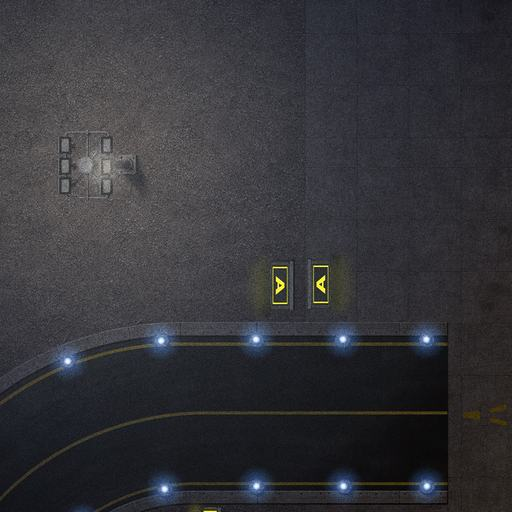
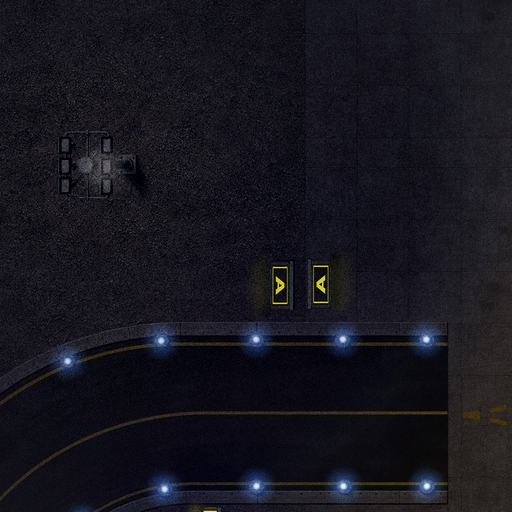
Farol só sobre a torre, sem os clarões dos postes, barra de abas amarela com divisórias
Claude-Session: https://claude.ai/code/session_01Y22HSWpi8bJjkUpXL6Y8uJ

diff --git a/lite.html b/lite.html
@@ -31,7 +31,7 @@ button:focus-visible{outline:2px solid var(--y);outline-offset:2px}
 .zreset{position:absolute;left:10px;top:10px;z-index:12;display:flex;align-items:center;gap:6px;background:var(--k);border:1px solid var(--y);color:var(--y);font-weight:800;font-size:12px;border-radius:18px;padding:6px 12px;min-height:36px}
 .zreset[hidden]{display:none}
 .zhint{position:absolute;left:50%;top:45%;transform:translate(-50%,-50%);font-weight:700;z-index:12;background:rgba(0,0,0,.7);color:var(--g);font-size:11px;border-radius:12px;padding:4px 10px;pointer-events:none;transition:opacity .6s}
-.map{position:absolute;left:0;top:0;transform-origin:0 0;background:url(lite_map.jpg?v=20261126a) center/100% 100% no-repeat;overflow:hidden;will-change:transform}
+.map{position:absolute;left:0;top:0;transform-origin:0 0;background:url(lite_map.jpg?v=20261126b) center/100% 100% no-repeat;overflow:hidden;will-change:transform}
 
 /* aviões */
 .pl{position:absolute;transform:translate(-50%,-50%);pointer-events:none;will-change:left,top}
@@ -194,23 +194,23 @@ body.rot .map{background:none}
 body.rot .sky{display:none}
 body.rot .sign,body.rot .rwy{transform:translate(-50%,-50%) rotate(90deg)}
 body.land .mobileBar{top:50%;transform:translateY(-50%)}
-#bgH{position:absolute;left:0;top:0;transform-origin:0 0;background:url(lite_maph.jpg?v=20261126a) center/100% 100% no-repeat;display:none;pointer-events:none}
+#bgH{position:absolute;left:0;top:0;transform-origin:0 0;background:url(lite_maph.jpg?v=20261126b) center/100% 100% no-repeat;display:none;pointer-events:none}
 #bgH i{position:absolute;top:0;right:0;bottom:0;left:0;opacity:0;background:center/100% 100% no-repeat}
-#skyTh{background-image:url(lite_maph.jpg?v=20261126a)!important}#skyNh{background-image:url(lite_maph_noite.jpg?v=20261126a)!important}
+#skyTh{background-image:url(lite_maph.jpg?v=20261126b)!important}#skyNh{background-image:url(lite_maph_noite.jpg?v=20261126b)!important}
 body.rot #bgH{display:block}
-body.l2 #bgH{background-image:url(maph2_dia.jpg?v=20261126a)}body.l2 #skyTh{background-image:url(maph2_tarde.jpg?v=20261126a)!important}body.l2 #skyNh{background-image:url(maph2_noite.jpg?v=20261126a)!important}
-body.l3 #bgH{background-image:url(maph3_dia.jpg?v=20261126a)}body.l3 #skyTh{background-image:url(maph3_tarde.jpg?v=20261126a)!important}body.l3 #skyNh{background-image:url(maph3_noite.jpg?v=20261126a)!important}
-body.rot.l2 .stage::before{background-image:url(maph2_dia.jpg?v=20261126a)}body.rot.l3 .stage::before{background-image:url(maph3_dia.jpg?v=20261126a)}
+body.l2 #bgH{background-image:url(maph2_dia.jpg?v=20261126b)}body.l2 #skyTh{background-image:url(maph2_tarde.jpg?v=20261126b)!important}body.l2 #skyNh{background-image:url(maph2_noite.jpg?v=20261126b)!important}
+body.l3 #bgH{background-image:url(maph3_dia.jpg?v=20261126b)}body.l3 #skyTh{background-image:url(maph3_tarde.jpg?v=20261126b)!important}body.l3 #skyNh{background-image:url(maph3_noite.jpg?v=20261126b)!important}
+body.rot.l2 .stage::before{background-image:url(maph2_dia.jpg?v=20261126b)}body.rot.l3 .stage::before{background-image:url(maph3_dia.jpg?v=20261126b)}
 body.land .rail{top:84px}
 
 @media(max-height:520px){body.land .mobileBar{gap:4px}body.land .mobileBar .tab,body.land .mobileBar .mb{width:40px;height:40px;border-radius:9px}body.land .mobileBar .tab .ico,body.land .mobileBar .mb .ico{width:24px;height:24px}body.land .mobileBar .mb.clockb .clock{font-size:11px}body.land .mobileBar .mb.clockb small{display:none}body.land .rail{top:70px}}
 
 .sky{position:absolute;top:0;right:0;bottom:0;left:0;background:center/100% 100% no-repeat;opacity:0;pointer-events:none}
-#skyT{background-image:url(lite_map.jpg?v=20261126a)}#skyF{background-image:url(map_fechado.jpg?v=20261126a);transition:opacity 2.5s}#skyFh{background-image:url(maph_fechado.jpg?v=20261126a)!important;transition:opacity 2.5s}body.l2 #skyF{background-image:url(map2_fechado.jpg?v=20261126a)}body.l3 #skyF{background-image:url(map3_fechado.jpg?v=20261126a)}body.l2 #skyFh{background-image:url(maph2_fechado.jpg?v=20261126a)!important}body.l3 #skyFh{background-image:url(maph3_fechado.jpg?v=20261126a)!important}body.closed #lights{opacity:0;transition:opacity 2s}#skyN{background-image:url(lite_map_noite.jpg?v=20261126a)}
-body.l2 .map{background-image:url(lite_map2.jpg?v=20261126a)}body.l2 #skyT{background-image:url(lite_map2.jpg?v=20261126a)}body.l2 #skyN{background-image:url(lite_map2_noite.jpg?v=20261126a)}
-body.l2 .stage::before{background-image:url(lite_map2.jpg?v=20261126a)}
-body.l3 .map{background-image:url(lite_map3.jpg?v=20261126a)}body.l3 #skyT{background-image:url(lite_map3.jpg?v=20261126a)}body.l3 #skyN{background-image:url(lite_map3_noite.jpg?v=20261126a)}
-body.l3 .stage::before{background-image:url(lite_map3.jpg?v=20261126a)}body.l3 #glow{display:none}
+#skyT{background-image:url(lite_map.jpg?v=20261126b)}#skyF{background-image:url(map_fechado.jpg?v=20261126b);transition:opacity 2.5s}#skyFh{background-image:url(maph_fechado.jpg?v=20261126b)!important;transition:opacity 2.5s}body.l2 #skyF{background-image:url(map2_fechado.jpg?v=20261126b)}body.l3 #skyF{background-image:url(map3_fechado.jpg?v=20261126b)}body.l2 #skyFh{background-image:url(maph2_fechado.jpg?v=20261126b)!important}body.l3 #skyFh{background-image:url(maph3_fechado.jpg?v=20261126b)!important}body.closed #lights{opacity:0;transition:opacity 2s}#skyN{background-image:url(lite_map_noite.jpg?v=20261126b)}
+body.l2 .map{background-image:url(lite_map2.jpg?v=20261126b)}body.l2 #skyT{background-image:url(lite_map2.jpg?v=20261126b)}body.l2 #skyN{background-image:url(lite_map2_noite.jpg?v=20261126b)}
+body.l2 .stage::before{background-image:url(lite_map2.jpg?v=20261126b)}
+body.l3 .map{background-image:url(lite_map3.jpg?v=20261126b)}body.l3 #skyT{background-image:url(lite_map3.jpg?v=20261126b)}body.l3 #skyN{background-image:url(lite_map3_noite.jpg?v=20261126b)}
+body.l3 .stage::before{background-image:url(lite_map3.jpg?v=20261126b)}body.l3 #glow{display:none}
 .dl.apt .dl-r{font-size:13px;color:#bbb}.dl-go{margin-top:8px}
 #glow{position:absolute;top:0;right:0;bottom:0;left:0;background:url(glow1.png) center/100% 100% no-repeat;opacity:var(--nt,.2);pointer-events:none;mix-blend-mode:screen;z-index:1}
 body.l2 #glow{background-image:url(glow2.png)}#glow{display:none!important}body.rot #glow{display:none}
@@ -533,8 +533,8 @@ body.neo .aq-t:empty{background:#1d1e21;box-shadow:inset 3px 3px 6px rgba(0,0,0,
   .toast{position:fixed;top:auto;bottom:18px;max-width:calc(100% - 150px);left:calc(50% - 30px)}
 }
 @media(prefers-reduced-motion:reduce){.sign.ok .plate{animation:none!important}}
-.stage::before{content:"";position:absolute;top:-40px;right:-40px;bottom:-40px;left:-40px;background:url(lite_map.jpg?v=20261126a) center/cover no-repeat;filter:blur(22px) brightness(.75)}
-body.rot .stage::before{background-image:url(lite_maph.jpg?v=20261126a)}
+.stage::before{content:"";position:absolute;top:-40px;right:-40px;bottom:-40px;left:-40px;background:url(lite_map.jpg?v=20261126b) center/cover no-repeat;filter:blur(22px) brightness(.75)}
+body.rot .stage::before{background-image:url(lite_maph.jpg?v=20261126b)}
 /* capa: compatível com Safari antigo (sem gap em flex, altura explícita) */
 .cover{height:100vh;height:100dvh;grid-template-rows:auto minmax(0,1fr) auto}
 .signs>*+*{margin-top:8px}.sgn>*+*{margin-left:12px}.cv-act>*+*{margin-top:8px}
@@ -853,17 +853,18 @@ body.cbar .zhint{top:auto;bottom:calc(var(--panh,0px) + var(--rbh,0px) + 14px)}
 
 /* celular: barra em pílula estilo neo, com um círculo amarelo que desliza até a aba aberta */
 body.cbar #edge{position:absolute!important;left:0!important;right:0!important;top:auto!important;bottom:var(--panh,0px)!important;height:var(--rbh,58px);transform:none!important;display:flex;flex-direction:row!important;align-items:center;justify-content:center;background:#000;box-sizing:border-box;padding:0 12px;pointer-events:none}
-body.cbar #edge::before{content:"";position:absolute;left:0;right:0;top:0;bottom:0;border-radius:0;background:linear-gradient(180deg,#141517,#1d1e21);box-shadow:inset 0 3px 8px rgba(0,0,0,.8),inset 0 -1px 0 rgba(255,255,255,.05),0 1px 0 rgba(255,255,255,.04)}
+body.cbar #edge::before{content:"";position:absolute;left:0;right:0;top:0;bottom:0;border-radius:0;background:linear-gradient(180deg,#ffe94a,#f2cf00);box-shadow:inset 0 2px 0 rgba(255,255,255,.45),inset 0 -3px 6px rgba(0,0,0,.18)}
+body.cbar #edge>*:not(#edgeDot)~*:not(#edgeDot){background:linear-gradient(90deg,rgba(0,0,0,.3) 0 2px,rgba(255,255,255,.4) 2px 3px,transparent 3px) left center/3px 26px no-repeat!important}
 body.cbar #edge>*{position:relative;z-index:1;flex:1;display:flex;justify-content:center;pointer-events:auto}
 body.cbar #edge>*+*{margin-top:0}
-body.cbar #edge #edgeDot{position:absolute;z-index:0;flex:none;top:50%;left:0;width:44px;height:44px;margin-top:-22px;border-radius:50%;background:linear-gradient(145deg,#ffe95c,#e8c600);box-shadow:0 4px 10px rgba(0,0,0,.55),0 0 14px rgba(255,220,0,.35),inset 0 1px 0 rgba(255,255,255,.5);transition:transform .35s cubic-bezier(.3,1.4,.5,1),opacity .2s;opacity:0;pointer-events:none}
+body.cbar #edge #edgeDot{position:absolute;z-index:0;flex:none;top:50%;left:0;width:44px;height:44px;margin-top:-22px;border-radius:50%;background:linear-gradient(145deg,#2a2b2f,#141518);box-shadow:0 4px 10px rgba(0,0,0,.45),inset 0 1px 0 rgba(255,255,255,.08);transition:transform .35s cubic-bezier(.3,1.4,.5,1),opacity .2s;opacity:0;pointer-events:none}
 body.cbar #edge .edt,body.cbar #edge #fltTab,body.cbar #edge #aqp .aq-tab,body.cbar #edge #mxTab{position:relative!important;top:auto!important;right:auto!important;transform:none!important;flex-direction:row!important;gap:3px;height:44px!important;min-width:44px;padding:0 6px!important;border:0!important;border-radius:22px!important;box-shadow:none!important;background:transparent!important;justify-content:center;align-items:center}
 body.cbar #edge .ico{background:transparent!important;box-shadow:none!important}
 body.cbar #edge .edt .ico,body.cbar #edge #mxTab .ico,body.cbar #edge #fltTab .ico{width:24px!important;height:24px!important;margin:0!important}
-body.cbar #edge .ico svg,body.cbar #edge #mxTab svg{fill:#d9d9d9!important}
-body.cbar #edge #aqp .aq-tab .aqi{width:23px;height:23px;color:#d9d9d9!important}
-body.cbar #edge #fltTab b{font-size:14px;color:#fff}body.cbar #edge #fltTab span{font-size:18px;color:#d9d9d9}body.cbar #edge #fltTab.on-dot span{color:#111}
-body.cbar #edge .on-dot .ico svg,body.cbar #edge .on-dot svg{fill:#111!important}body.cbar #edge .on-dot .aqi{color:#111!important}body.cbar #edge .on-dot b{color:#111!important}
+body.cbar #edge .ico svg,body.cbar #edge #mxTab svg{fill:#111!important}
+body.cbar #edge #aqp .aq-tab .aqi{width:23px;height:23px;color:#111!important}
+body.cbar #edge #fltTab b{font-size:14px;color:#111}body.cbar #edge #fltTab span{font-size:18px;color:#111}body.cbar #edge #fltTab.on-dot span{color:var(--y)}
+body.cbar #edge .on-dot .ico svg,body.cbar #edge .on-dot svg{fill:var(--y)!important}body.cbar #edge .on-dot .aqi{color:var(--y)!important}body.cbar #edge .on-dot b{color:var(--y)!important}
 body.cbar #edge .edw{position:static}
 body.cbar #edge .edp{position:absolute;left:8px;right:8px;bottom:calc(100% + 6px);margin:0;border:0!important;border-radius:22px!important;max-width:none;justify-content:center;background:linear-gradient(145deg,#232428,#1a1b1e)!important;box-shadow:0 10px 24px rgba(0,0,0,.6),inset 0 1px 0 rgba(255,255,255,.05)!important}
 body.cbar #edge #aqp{position:static!important}
@@ -871,8 +872,8 @@ body.cbar #edge #aqp .aq-in{position:absolute;right:10px;left:auto;bottom:calc(1
 body.cbar #edge #mxTab #mxDot{top:6px;right:6px}
 /* farol giratório no topo da torre de controle */
 #beacon{position:absolute;z-index:4;pointer-events:none;width:0;height:0}
-#beacon i{position:absolute;left:0;top:0;width:calc(var(--mk,1)*150px);height:calc(var(--mk,1)*150px);transform:translate(-50%,-50%);border-radius:50%;background:conic-gradient(from 0deg,rgba(255,255,240,.0) 0deg,rgba(255,255,235,.85) 8deg,rgba(255,255,240,0) 26deg,transparent 180deg,rgba(90,255,150,.0) 180deg,rgba(90,255,150,.8) 188deg,rgba(90,255,150,0) 206deg,transparent 360deg);-webkit-mask:radial-gradient(circle,#000 0,#000 35%,transparent 70%);mask:radial-gradient(circle,#000 0,#000 35%,transparent 70%);mix-blend-mode:screen;animation:bspin 3s linear infinite;opacity:calc(.25 + var(--nt,0)*.75)}
-#beacon b{position:absolute;left:0;top:0;width:calc(var(--mk,1)*5px);height:calc(var(--mk,1)*5px);transform:translate(-50%,-50%);border-radius:50%;background:#fff;box-shadow:0 0 6px 3px rgba(255,255,230,.9)}
+#beacon i{position:absolute;left:0;top:0;width:calc(var(--mk,1)*44px);height:calc(var(--mk,1)*44px);transform:translate(-50%,-50%);border-radius:50%;background:conic-gradient(from 0deg,rgba(255,255,240,.0) 0deg,rgba(255,255,235,.85) 8deg,rgba(255,255,240,0) 26deg,transparent 180deg,rgba(90,255,150,.0) 180deg,rgba(90,255,150,.8) 188deg,rgba(90,255,150,0) 206deg,transparent 360deg);-webkit-mask:radial-gradient(circle,#000 0,#000 40%,transparent 71%);mask:radial-gradient(circle,#000 0,#000 40%,transparent 71%);mix-blend-mode:screen;animation:bspin 3s linear infinite;opacity:calc(.25 + var(--nt,0)*.75)}
+#beacon b{position:absolute;left:0;top:0;width:calc(var(--mk,1)*3.5px);height:calc(var(--mk,1)*3.5px);transform:translate(-50%,-50%);border-radius:50%;background:#fff;box-shadow:0 0 6px 3px rgba(255,255,230,.9)}
 @keyframes bspin{to{transform:translate(-50%,-50%) rotate(360deg)}}
 /* abas laterais cabem entre o painel de LED e o painel de botões */
 body.cbar #edge{top:calc(var(--barh,0px) + 74px);transform:scale(var(--eds,.9));transform-origin:100% 0}
@@ -977,7 +978,7 @@ if(!window.PointerEvent){(function(){
 })()}
 </script>
 <script>
-var APPV='1795741954';
+var APPV='1795742496';
 (function(){function chk(){try{fetch('version.txt?t='+Date.now(),{cache:'no-store'}).then(function(r){return r.ok?r.text():''}).then(function(v){v=(v||'').trim();if(v&&v!==APPV){var k='departure_reload_'+v;if(!sessionStorage.getItem(k)){sessionStorage.setItem(k,'1');location.replace(location.pathname+'?v='+v)}}}).catch(function(){})}catch(e){}}
 chk();document.addEventListener('visibilitychange',function(){if(!document.hidden)chk()});})();
 </script>
@@ -3210,7 +3211,7 @@ function hrStep(){
     const have=new Set([...box.children].map(im=>im.dataset.k));
     for(const k of want){if(have.has(k))continue;const [tx,ty]=k.split('_').map(Number),w=Math.min(HR_T,W-tx*HR_T),h=Math.min(HR_T,H-ty*HR_T),im=new Image();
       im.dataset.k=k;im.decoding='async';im.alt='';im.style.cssText=`left:${tx*HR_T/W*100}%;top:${ty*HR_T/H*100}%;width:${(w+.4)/W*100}%;height:${(h+.4)/H*100}%;opacity:0;transition:opacity .25s`;
-      im.onload=()=>{im.style.opacity=1};im.src=`hr/${v}/${k}.jpg`;box.appendChild(im)}}
+      im.onload=()=>{im.style.opacity=1};im.src=`hr/${v}/${k}.jpg?v=2`;box.appendChild(im)}}
 }
 
 // círculo que desliza até a aba aberta na barra de baixo

diff --git a/index.html b/index.html
@@ -31,7 +31,7 @@ button:focus-visible{outline:2px solid var(--y);outline-offset:2px}
 .zreset{position:absolute;left:10px;top:10px;z-index:12;display:flex;align-items:center;gap:6px;background:var(--k);border:1px solid var(--y);color:var(--y);font-weight:800;font-size:12px;border-radius:18px;padding:6px 12px;min-height:36px}
 .zreset[hidden]{display:none}
 .zhint{position:absolute;left:50%;top:45%;transform:translate(-50%,-50%);font-weight:700;z-index:12;background:rgba(0,0,0,.7);color:var(--g);font-size:11px;border-radius:12px;padding:4px 10px;pointer-events:none;transition:opacity .6s}
-.map{position:absolute;left:0;top:0;transform-origin:0 0;background:url(map.jpg?v=20261126a) center/100% 100% no-repeat;overflow:hidden;will-change:transform}
+.map{position:absolute;left:0;top:0;transform-origin:0 0;background:url(map.jpg?v=20261126b) center/100% 100% no-repeat;overflow:hidden;will-change:transform}
 
 /* aviões */
 .pl{position:absolute;transform:translate(-50%,-50%);pointer-events:none;will-change:left,top}
@@ -194,23 +194,23 @@ body.rot .map{background:none}
 body.rot .sky{display:none}
 body.rot .sign,body.rot .rwy{transform:translate(-50%,-50%) rotate(90deg)}
 body.land .mobileBar{top:50%;transform:translateY(-50%)}
-#bgH{position:absolute;left:0;top:0;transform-origin:0 0;background:url(maph_dia.jpg?v=20261126a) center/100% 100% no-repeat;display:none;pointer-events:none}
+#bgH{position:absolute;left:0;top:0;transform-origin:0 0;background:url(maph_dia.jpg?v=20261126b) center/100% 100% no-repeat;display:none;pointer-events:none}
 #bgH i{position:absolute;top:0;right:0;bottom:0;left:0;opacity:0;background:center/100% 100% no-repeat}
-#skyTh{background-image:url(maph_tarde.jpg?v=20261126a)!important}#skyNh{background-image:url(maph_noite.jpg?v=20261126a)!important}
+#skyTh{background-image:url(maph_tarde.jpg?v=20261126b)!important}#skyNh{background-image:url(maph_noite.jpg?v=20261126b)!important}
 body.rot #bgH{display:block}
-body.l2 #bgH{background-image:url(maph2_dia.jpg?v=20261126a)}body.l2 #skyTh{background-image:url(maph2_tarde.jpg?v=20261126a)!important}body.l2 #skyNh{background-image:url(maph2_noite.jpg?v=20261126a)!important}
-body.l3 #bgH{background-image:url(maph3_dia.jpg?v=20261126a)}body.l3 #skyTh{background-image:url(maph3_tarde.jpg?v=20261126a)!important}body.l3 #skyNh{background-image:url(maph3_noite.jpg?v=20261126a)!important}
-body.rot.l2 .stage::before{background-image:url(maph2_dia.jpg?v=20261126a)}body.rot.l3 .stage::before{background-image:url(maph3_dia.jpg?v=20261126a)}
+body.l2 #bgH{background-image:url(maph2_dia.jpg?v=20261126b)}body.l2 #skyTh{background-image:url(maph2_tarde.jpg?v=20261126b)!important}body.l2 #skyNh{background-image:url(maph2_noite.jpg?v=20261126b)!important}
+body.l3 #bgH{background-image:url(maph3_dia.jpg?v=20261126b)}body.l3 #skyTh{background-image:url(maph3_tarde.jpg?v=20261126b)!important}body.l3 #skyNh{background-image:url(maph3_noite.jpg?v=20261126b)!important}
+body.rot.l2 .stage::before{background-image:url(maph2_dia.jpg?v=20261126b)}body.rot.l3 .stage::before{background-image:url(maph3_dia.jpg?v=20261126b)}
 body.land .rail{top:84px}
 
 @media(max-height:520px){body.land .mobileBar{gap:4px}body.land .mobileBar .tab,body.land .mobileBar .mb{width:40px;height:40px;border-radius:9px}body.land .mobileBar .tab .ico,body.land .mobileBar .mb .ico{width:24px;height:24px}body.land .mobileBar .mb.clockb .clock{font-size:11px}body.land .mobileBar .mb.clockb small{display:none}body.land .rail{top:70px}}
 
 .sky{position:absolute;top:0;right:0;bottom:0;left:0;background:center/100% 100% no-repeat;opacity:0;pointer-events:none}
-#skyT{background-image:url(map_tarde.jpg?v=20261126a)}#skyF{background-image:url(map_fechado.jpg?v=20261126a);transition:opacity 2.5s}#skyFh{background-image:url(maph_fechado.jpg?v=20261126a)!important;transition:opacity 2.5s}body.l2 #skyF{background-image:url(map2_fechado.jpg?v=20261126a)}body.l3 #skyF{background-image:url(map3_fechado.jpg?v=20261126a)}body.l2 #skyFh{background-image:url(maph2_fechado.jpg?v=20261126a)!important}body.l3 #skyFh{background-image:url(maph3_fechado.jpg?v=20261126a)!important}body.closed #lights{opacity:0;transition:opacity 2s}#skyN{background-image:url(map_noite.jpg?v=20261126a)}
-body.l2 .map{background-image:url(map2_dia.jpg?v=20261126a)}body.l2 #skyT{background-image:url(map2_tarde.jpg?v=20261126a)}body.l2 #skyN{background-image:url(map2_noite.jpg?v=20261126a)}
-body.l2 .stage::before{background-image:url(map2_dia.jpg?v=20261126a)}
-body.l3 .map{background-image:url(map3_dia.jpg?v=20261126a)}body.l3 #skyT{background-image:url(map3_tarde.jpg?v=20261126a)}body.l3 #skyN{background-image:url(map3_noite.jpg?v=20261126a)}
-body.l3 .stage::before{background-image:url(map3_dia.jpg?v=20261126a)}body.l3 #glow{display:none}
+#skyT{background-image:url(map_tarde.jpg?v=20261126b)}#skyF{background-image:url(map_fechado.jpg?v=20261126b);transition:opacity 2.5s}#skyFh{background-image:url(maph_fechado.jpg?v=20261126b)!important;transition:opacity 2.5s}body.l2 #skyF{background-image:url(map2_fechado.jpg?v=20261126b)}body.l3 #skyF{background-image:url(map3_fechado.jpg?v=20261126b)}body.l2 #skyFh{background-image:url(maph2_fechado.jpg?v=20261126b)!important}body.l3 #skyFh{background-image:url(maph3_fechado.jpg?v=20261126b)!important}body.closed #lights{opacity:0;transition:opacity 2s}#skyN{background-image:url(map_noite.jpg?v=20261126b)}
+body.l2 .map{background-image:url(map2_dia.jpg?v=20261126b)}body.l2 #skyT{background-image:url(map2_tarde.jpg?v=20261126b)}body.l2 #skyN{background-image:url(map2_noite.jpg?v=20261126b)}
+body.l2 .stage::before{background-image:url(map2_dia.jpg?v=20261126b)}
+body.l3 .map{background-image:url(map3_dia.jpg?v=20261126b)}body.l3 #skyT{background-image:url(map3_tarde.jpg?v=20261126b)}body.l3 #skyN{background-image:url(map3_noite.jpg?v=20261126b)}
+body.l3 .stage::before{background-image:url(map3_dia.jpg?v=20261126b)}body.l3 #glow{display:none}
 .dl.apt .dl-r{font-size:13px;color:#bbb}.dl-go{margin-top:8px}
 #glow{position:absolute;top:0;right:0;bottom:0;left:0;background:url(glow1.png) center/100% 100% no-repeat;opacity:var(--nt,.2);pointer-events:none;mix-blend-mode:screen;z-index:1}
 body.l2 #glow{background-image:url(glow2.png)}#glow{display:none!important}body.rot #glow{display:none}
@@ -533,8 +533,8 @@ body.neo .aq-t:empty{background:#1d1e21;box-shadow:inset 3px 3px 6px rgba(0,0,0,
   .toast{position:fixed;top:auto;bottom:18px;max-width:calc(100% - 150px);left:calc(50% - 30px)}
 }
 @media(prefers-reduced-motion:reduce){.sign.ok .plate{animation:none!important}}
-.stage::before{content:"";position:absolute;top:-40px;right:-40px;bottom:-40px;left:-40px;background:url(map.jpg?v=20261126a) center/cover no-repeat;filter:blur(22px) brightness(.75)}
-body.rot .stage::before{background-image:url(maph_dia.jpg?v=20261126a)}
+.stage::before{content:"";position:absolute;top:-40px;right:-40px;bottom:-40px;left:-40px;background:url(map.jpg?v=20261126b) center/cover no-repeat;filter:blur(22px) brightness(.75)}
+body.rot .stage::before{background-image:url(maph_dia.jpg?v=20261126b)}
 /* capa: compatível com Safari antigo (sem gap em flex, altura explícita) */
 .cover{height:100vh;height:100dvh;grid-template-rows:auto minmax(0,1fr) auto}
 .signs>*+*{margin-top:8px}.sgn>*+*{margin-left:12px}.cv-act>*+*{margin-top:8px}
@@ -853,17 +853,18 @@ body.cbar .zhint{top:auto;bottom:calc(var(--panh,0px) + var(--rbh,0px) + 14px)}
 
 /* celular: barra em pílula estilo neo, com um círculo amarelo que desliza até a aba aberta */
 body.cbar #edge{position:absolute!important;left:0!important;right:0!important;top:auto!important;bottom:var(--panh,0px)!important;height:var(--rbh,58px);transform:none!important;display:flex;flex-direction:row!important;align-items:center;justify-content:center;background:#000;box-sizing:border-box;padding:0 12px;pointer-events:none}
-body.cbar #edge::before{content:"";position:absolute;left:0;right:0;top:0;bottom:0;border-radius:0;background:linear-gradient(180deg,#141517,#1d1e21);box-shadow:inset 0 3px 8px rgba(0,0,0,.8),inset 0 -1px 0 rgba(255,255,255,.05),0 1px 0 rgba(255,255,255,.04)}
+body.cbar #edge::before{content:"";position:absolute;left:0;right:0;top:0;bottom:0;border-radius:0;background:linear-gradient(180deg,#ffe94a,#f2cf00);box-shadow:inset 0 2px 0 rgba(255,255,255,.45),inset 0 -3px 6px rgba(0,0,0,.18)}
+body.cbar #edge>*:not(#edgeDot)~*:not(#edgeDot){background:linear-gradient(90deg,rgba(0,0,0,.3) 0 2px,rgba(255,255,255,.4) 2px 3px,transparent 3px) left center/3px 26px no-repeat!important}
 body.cbar #edge>*{position:relative;z-index:1;flex:1;display:flex;justify-content:center;pointer-events:auto}
 body.cbar #edge>*+*{margin-top:0}
-body.cbar #edge #edgeDot{position:absolute;z-index:0;flex:none;top:50%;left:0;width:44px;height:44px;margin-top:-22px;border-radius:50%;background:linear-gradient(145deg,#ffe95c,#e8c600);box-shadow:0 4px 10px rgba(0,0,0,.55),0 0 14px rgba(255,220,0,.35),inset 0 1px 0 rgba(255,255,255,.5);transition:transform .35s cubic-bezier(.3,1.4,.5,1),opacity .2s;opacity:0;pointer-events:none}
+body.cbar #edge #edgeDot{position:absolute;z-index:0;flex:none;top:50%;left:0;width:44px;height:44px;margin-top:-22px;border-radius:50%;background:linear-gradient(145deg,#2a2b2f,#141518);box-shadow:0 4px 10px rgba(0,0,0,.45),inset 0 1px 0 rgba(255,255,255,.08);transition:transform .35s cubic-bezier(.3,1.4,.5,1),opacity .2s;opacity:0;pointer-events:none}
 body.cbar #edge .edt,body.cbar #edge #fltTab,body.cbar #edge #aqp .aq-tab,body.cbar #edge #mxTab{position:relative!important;top:auto!important;right:auto!important;transform:none!important;flex-direction:row!important;gap:3px;height:44px!important;min-width:44px;padding:0 6px!important;border:0!important;border-radius:22px!important;box-shadow:none!important;background:transparent!important;justify-content:center;align-items:center}
 body.cbar #edge .ico{background:transparent!important;box-shadow:none!important}
 body.cbar #edge .edt .ico,body.cbar #edge #mxTab .ico,body.cbar #edge #fltTab .ico{width:24px!important;height:24px!important;margin:0!important}
-body.cbar #edge .ico svg,body.cbar #edge #mxTab svg{fill:#d9d9d9!important}
-body.cbar #edge #aqp .aq-tab .aqi{width:23px;height:23px;color:#d9d9d9!important}
-body.cbar #edge #fltTab b{font-size:14px;color:#fff}body.cbar #edge #fltTab span{font-size:18px;color:#d9d9d9}body.cbar #edge #fltTab.on-dot span{color:#111}
-body.cbar #edge .on-dot .ico svg,body.cbar #edge .on-dot svg{fill:#111!important}body.cbar #edge .on-dot .aqi{color:#111!important}body.cbar #edge .on-dot b{color:#111!important}
+body.cbar #edge .ico svg,body.cbar #edge #mxTab svg{fill:#111!important}
+body.cbar #edge #aqp .aq-tab .aqi{width:23px;height:23px;color:#111!important}
+body.cbar #edge #fltTab b{font-size:14px;color:#111}body.cbar #edge #fltTab span{font-size:18px;color:#111}body.cbar #edge #fltTab.on-dot span{color:var(--y)}
+body.cbar #edge .on-dot .ico svg,body.cbar #edge .on-dot svg{fill:var(--y)!important}body.cbar #edge .on-dot .aqi{color:var(--y)!important}body.cbar #edge .on-dot b{color:var(--y)!important}
 body.cbar #edge .edw{position:static}
 body.cbar #edge .edp{position:absolute;left:8px;right:8px;bottom:calc(100% + 6px);margin:0;border:0!important;border-radius:22px!important;max-width:none;justify-content:center;background:linear-gradient(145deg,#232428,#1a1b1e)!important;box-shadow:0 10px 24px rgba(0,0,0,.6),inset 0 1px 0 rgba(255,255,255,.05)!important}
 body.cbar #edge #aqp{position:static!important}
@@ -871,8 +872,8 @@ body.cbar #edge #aqp .aq-in{position:absolute;right:10px;left:auto;bottom:calc(1
 body.cbar #edge #mxTab #mxDot{top:6px;right:6px}
 /* farol giratório no topo da torre de controle */
 #beacon{position:absolute;z-index:4;pointer-events:none;width:0;height:0}
-#beacon i{position:absolute;left:0;top:0;width:calc(var(--mk,1)*150px);height:calc(var(--mk,1)*150px);transform:translate(-50%,-50%);border-radius:50%;background:conic-gradient(from 0deg,rgba(255,255,240,.0) 0deg,rgba(255,255,235,.85) 8deg,rgba(255,255,240,0) 26deg,transparent 180deg,rgba(90,255,150,.0) 180deg,rgba(90,255,150,.8) 188deg,rgba(90,255,150,0) 206deg,transparent 360deg);-webkit-mask:radial-gradient(circle,#000 0,#000 35%,transparent 70%);mask:radial-gradient(circle,#000 0,#000 35%,transparent 70%);mix-blend-mode:screen;animation:bspin 3s linear infinite;opacity:calc(.25 + var(--nt,0)*.75)}
-#beacon b{position:absolute;left:0;top:0;width:calc(var(--mk,1)*5px);height:calc(var(--mk,1)*5px);transform:translate(-50%,-50%);border-radius:50%;background:#fff;box-shadow:0 0 6px 3px rgba(255,255,230,.9)}
+#beacon i{position:absolute;left:0;top:0;width:calc(var(--mk,1)*44px);height:calc(var(--mk,1)*44px);transform:translate(-50%,-50%);border-radius:50%;background:conic-gradient(from 0deg,rgba(255,255,240,.0) 0deg,rgba(255,255,235,.85) 8deg,rgba(255,255,240,0) 26deg,transparent 180deg,rgba(90,255,150,.0) 180deg,rgba(90,255,150,.8) 188deg,rgba(90,255,150,0) 206deg,transparent 360deg);-webkit-mask:radial-gradient(circle,#000 0,#000 40%,transparent 71%);mask:radial-gradient(circle,#000 0,#000 40%,transparent 71%);mix-blend-mode:screen;animation:bspin 3s linear infinite;opacity:calc(.25 + var(--nt,0)*.75)}
+#beacon b{position:absolute;left:0;top:0;width:calc(var(--mk,1)*3.5px);height:calc(var(--mk,1)*3.5px);transform:translate(-50%,-50%);border-radius:50%;background:#fff;box-shadow:0 0 6px 3px rgba(255,255,230,.9)}
 @keyframes bspin{to{transform:translate(-50%,-50%) rotate(360deg)}}
 /* abas laterais cabem entre o painel de LED e o painel de botões */
 body.cbar #edge{top:calc(var(--barh,0px) + 74px);transform:scale(var(--eds,.9));transform-origin:100% 0}
@@ -968,7 +969,7 @@ if(!window.PointerEvent){(function(){
 })()}
 </script>
 <script>
-var APPV='1795741954';
+var APPV='1795742496';
 (function(){function chk(){try{fetch('version.txt?t='+Date.now(),{cache:'no-store'}).then(function(r){return r.ok?r.text():''}).then(function(v){v=(v||'').trim();if(v&&v!==APPV){var k='departure_reload_'+v;if(!sessionStorage.getItem(k)){sessionStorage.setItem(k,'1');location.replace(location.pathname+'?v='+v)}}}).catch(function(){})}catch(e){}}
 chk();document.addEventListener('visibilitychange',function(){if(!document.hidden)chk()});})();
 </script>
@@ -3200,7 +3201,7 @@ function hrStep(){
     const have=new Set([...box.children].map(im=>im.dataset.k));
     for(const k of want){if(have.has(k))continue;const [tx,ty]=k.split('_').map(Number),w=Math.min(HR_T,W-tx*HR_T),h=Math.min(HR_T,H-ty*HR_T),im=new Image();
       im.dataset.k=k;im.decoding='async';im.alt='';im.style.cssText=`left:${tx*HR_T/W*100}%;top:${ty*HR_T/H*100}%;width:${(w+.4)/W*100}%;height:${(h+.4)/H*100}%;opacity:0;transition:opacity .25s`;
-      im.onload=()=>{im.style.opacity=1};im.src=`hr/${v}/${k}.jpg`;box.appendChild(im)}}
+      im.onload=()=>{im.style.opacity=1};im.src=`hr/${v}/${k}.jpg?v=2`;box.appendChild(im)}}
 }
 
 // círculo que desliza até a aba aberta na barra de baixo
